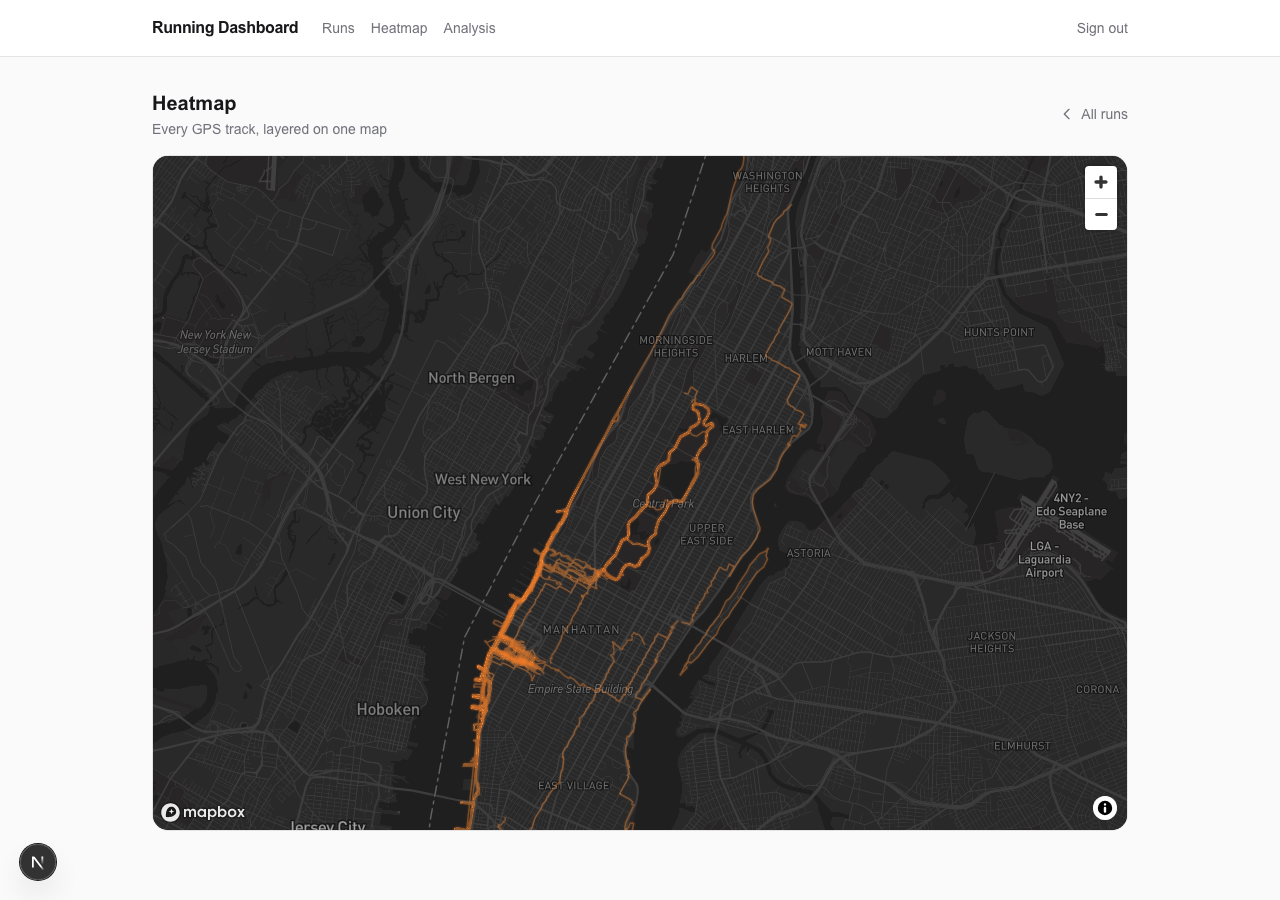
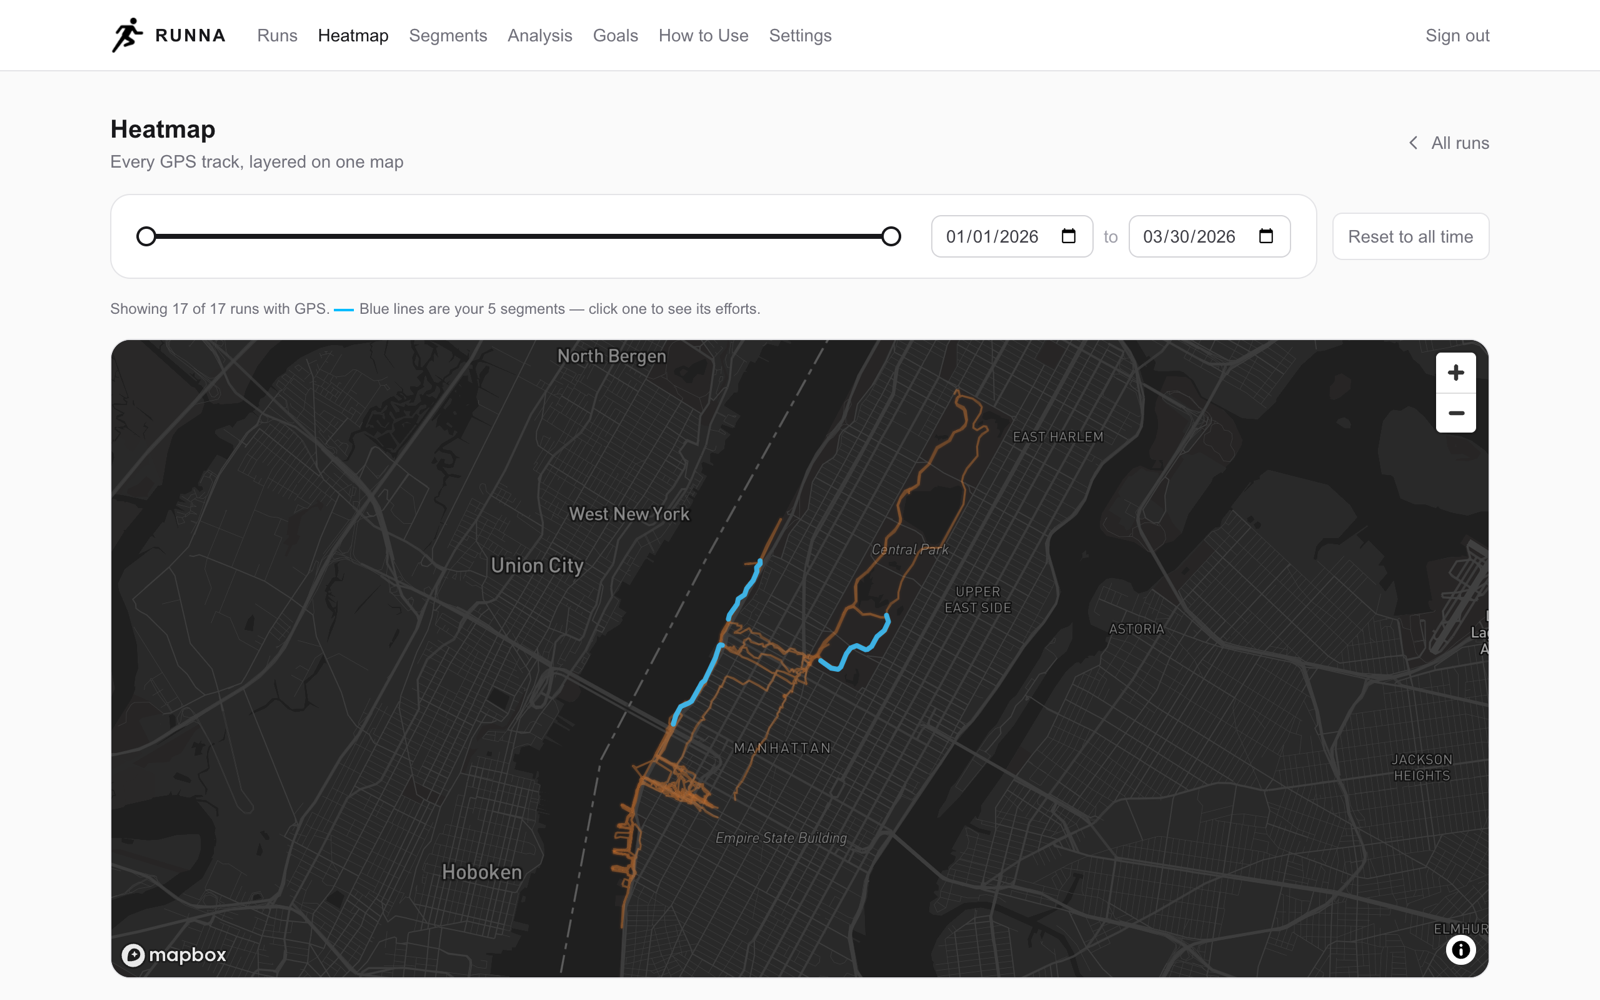
docs: refresh README with setup guide, feature tour and new screenshots
Rewrite the README around the current app: a feature tour per page,
an Analysis chart table, step-by-step setup with every env var, data
import, and project layout. Screenshots retaken from the demo account
at higher resolution, with new ones for Deep Dive, Segments, aerobic
charts and Goals.

diff --git a/README.md b/README.md
@@ -1,60 +1,191 @@
-# Running Planning
+# RUNNA — Personal Running Dashboard
 
-## Goals
-- Connect data to Garmin or Strava
-- List out my runs
-- Create visual maps for each run
-- Create dashboard for analyzing runs
+A private running dashboard for one runner. It pulls your runs from Intervals.icu (which syncs from Garmin and Strava) or from GPX/FIT files you upload, then turns them into maps, trends and coaching-style analysis built around one idea: **build a strong aerobic base, consistently, without getting hurt.**
+
+*Screenshots show the demo account's sample data.*
+
+**Contents:** [Features](#features) · [Getting started](#getting-started) · [Getting your data in](#getting-your-data-in) · [Weekly routine](#a-simple-weekly-routine) · [Project structure](#project-structure) · [Tech stack](#tech-stack)
+
+> New to the app? After you sign in, the **How to Use** page explains every chart and what to do about it.
 
 ---
 
-## What it does
+## Features
 
-A personal running dashboard for a single authenticated user. Pulls activity data from Intervals.icu (which aggregates Garmin and Strava), lets you upload GPX/FIT files directly, and turns it all into coaching-grade analysis.
+### Runs
 
-### Runs list
+Your full log: date, distance, time, pace, heart rate and source. Switch between miles and kilometers at any time (the choice is remembered).
 
-Every activity in one place — distance, time, pace, heart rate, and source. Toggle between miles and kilometers; preference is remembered across sessions.
+Next to the list, the **activity sidebar** shows whether the habit is holding: your weekly streak, progress on your weekly goal, a month calendar of run days, and distance for the past 12 weeks.
 
 ![Runs list](public/screenshots/runs-list.png)
 
-### Run detail & route map
+### Run detail
 
-Click any run to see the full stats breakdown and a GPS route map rendered with Mapbox, with a green start marker and red finish marker.
+Click a run to see its route on a map (green start, red finish), the weather at run time, and a **Deep Dive**: heart rate, pace, cadence and elevation through the run, plus per-mile splits and any segments you passed through.
 
 ![Run detail with route map](public/screenshots/run-detail.png)
 
+![Deep Dive heart-rate chart](public/screenshots/run-deep-dive.png)
+
 ### Heatmap
 
-All GPS tracks layered on a single dark map, centered on Manhattan. Repeated routes glow brighter — your training geography at a glance.
+Every GPS track layered on one dark map. Routes you run often glow brighter. It opens on the **last 90 days around your most recent run**, wherever that was. Drag the date slider to change the range, or click **Reset to all time** to see every run. Your segments appear as blue lines you can click.
 
-![All-runs heatmap](public/screenshots/heatmap.png)
+![Heatmap](public/screenshots/heatmap.png)
+
+### Segments
+
+The stretches you run most often, found automatically by spotting where many runs share the same path. Each segment times every pass you've made, so you can see whether you're getting faster at the same heart rate, and compare up to five efforts side by side.
+
+![Segments](public/screenshots/segments.png)
+
+![Segment efforts compared over the hill profile](public/screenshots/segment-detail.png)
 
 ### Analysis
 
-A dedicated analysis page with a date-range slider (default: last 2 weeks, adjustable to your full history). Every aerobic chart updates live as you scrub.
+Trends across many runs. A date slider at the top drives most charts; the training-load charts always use your full history.
 
-- **Aerobic Development** — distance vs. avg HR scatter, colored by date. A cloud drifting down = more distance for less cardiac cost.
-- **Aerobic Efficiency** — meters per minute per heartbeat over time. Rising = faster running at the same cardiovascular effort.
-- **Aerobic Pace** — easy (Zone 2) runs plotted over time; the y-axis is flipped so up = faster. The clearest long-term aerobic base signal.
-- **Effort Distribution** — weekly easy/moderate/hard breakdown by time, with the 75%-easy marathon training target marked.
-- **Fitness & Fatigue** — TRIMP-based CTL/ATL/TSB curves over 6 months: fitness builds slowly, fatigue moves fast, form = the difference.
-- **Acute:Chronic Load** — color-coded injury-risk ratio (green 0.8–1.3 = safe build, amber = caution, red = overreach).
-- **Long Run Progression** — longest run per week over the last 16 weeks.
+| Chart | The question it answers |
+|---|---|
+| **Training Plan** | What should my next 7 days look like, based on my recent load? |
+| **Weekly Volume** | Is my mileage consistent and growing gradually? |
+| **Aerobic Development** | Is the same distance costing my heart less over time? |
+| **Aerobic Efficiency** | How much speed does each heartbeat buy me? |
+| **Aerobic Pace** | Is my easy (Zone 2) pace getting faster? |
+| **Effort Distribution** | Are ~75% of my minutes actually easy? |
+| **Running Form** | How are my cadence and step length trending? |
+| **Run/Walk Split** | How much of each run is running vs. walking breaks? |
+| **Performance vs. Weather** | How much do heat and humidity slow *me* down? |
+| **Fitness & Fatigue** | Where are my fitness, fatigue and form (CTL / ATL / TSB)? |
+| **Acute : Chronic Load** | Am I ramping up faster than my body can absorb? |
+| **Long Run Progression** | Is my longest run of the week building steadily? |
 
-![Analysis page](public/screenshots/analysis.png)
+![Analysis page: weekly volume and aerobic development](public/screenshots/analysis.png)
+
+![Aerobic efficiency, aerobic pace and effort distribution](public/screenshots/analysis-aerobic.png)
+
+### Goals
+
+Set a weekly goal (runs or distance) and race goals. For each race, the app predicts your finish time from recent best efforts. It also tracks personal records from 1K to the marathon, detected from your runs automatically.
+
+![Goals and personal records](public/screenshots/goals.png)
+
+### Settings
+
+Your birthday (used to set heart-rate zones), the time zone used for days and weeks, and your login history.
+
+### Demo account
+
+A separate read-only login you can share with others. It sees only a date window you choose and can't change or sync anything. Credentials are set in `.env.local` and should be shared directly, never committed.
 
 ---
+
+## Getting started
+
+### 1. Prerequisites
+
+- Node.js 20+
+- A PostgreSQL database (local or hosted, e.g. Neon or Supabase)
+- A free [Mapbox](https://account.mapbox.com/access-tokens/) access token for the maps
+- *(Optional)* An [Intervals.icu](https://intervals.icu) account, for automatic sync
+
+### 2. Install
+
+```bash
+git clone https://github.com/RonRan123/running-app.git
+cd running-app
+npm install
+```
+
+### 3. Create `.env.local`
+
+Create a `.env.local` file in the project root with these values:
+
+| Variable | What it's for |
+|---|---|
+| `DATABASE_URL` | Your PostgreSQL connection string |
+| `NEXTAUTH_URL` | The app's URL, e.g. `http://localhost:3000` |
+| `NEXTAUTH_SECRET` | Any long random string (`openssl rand -base64 32`) |
+| `ADMIN_EMAIL` | The email you sign in with |
+| `ADMIN_PASSWORD_HASH` | A bcrypt hash of your password (see below) |
+| `NEXT_PUBLIC_MAPBOX_TOKEN` | Your Mapbox token |
+| `INTERVALS_API_KEY` | *(Optional)* From Intervals.icu → Settings → API Access |
+| `INTERVALS_ATHLETE_ID` | *(Optional)* From the same page |
+| `DEMO_EMAIL` / `DEMO_PASSWORD_HASH` | *(Optional)* The shareable read-only login |
+
+To hash a password:
+
+```bash
+node -e "console.log(require('bcryptjs').hashSync('your-password', 10))"
+```
+
+> **Escape the `$` signs.** Next.js expands `$` in env files, which breaks bcrypt hashes. Write each `$` in the hash as `\$`.
+
+### 4. Set up the database
+
+```bash
+npx prisma migrate deploy
+```
+
+### 5. Run it
+
+```bash
+npm run dev
+```
+
+Open [http://localhost:3000](http://localhost:3000) and sign in with your `ADMIN_EMAIL` and password.
+
+---
+
+## Getting your data in
+
+You never log runs by hand. Use either option, or both:
+
+- **Sync from Intervals.icu:** with the Intervals.icu variables set, click **Sync Intervals.icu** on the Runs page to pull in new activities. Connect Garmin or Strava inside Intervals.icu and your runs flow through.
+- **Upload files:** click **Upload GPX / FIT** on the Runs page and pick `.gpx` or `.fit` files exported from your watch.
+
+---
+
+## A simple weekly routine
+
+- **After each run:** open its Deep Dive. Was the effort what you intended?
+- **Once a week:** open Analysis. Check Effort Distribution (enough easy?), Acute : Chronic Load (ramping safely?) and Weekly Volume (consistent?).
+- **Once a month:** widen the date range and look at Aerobic Efficiency and Aerobic Pace. Is the engine growing?
+
+---
+
+## Project structure
+
+```
+app/
+  (protected)/      Signed-in pages: runs, analysis, segments, goals, settings, how-to-use
+  api/              Route handlers: activities, sync, segments, goals, settings, auth
+  login/            Sign-in page
+components/         UI, grouped by page (analysis/, deepdive/, goals/, segments/, settings/)
+lib/                Data access, analysis math, sync, file parsers, weather, training plan
+prisma/             Database schema and migrations
+```
+
+## Scripts
+
+| Command | What it does |
+|---|---|
+| `npm run dev` | Start the dev server on port 3000 |
+| `npm run build` | Generate the Prisma client and build for production |
+| `npm start` | Run the production build |
+| `npm test` | Run the unit tests (Vitest) |
 
 ## Tech stack
 
 | Layer | Choice |
 |---|---|
-| Framework | Next.js (App Router) |
+| Framework | Next.js 16 (App Router), React 19 |
 | Database | PostgreSQL + Prisma |
-| Auth | NextAuth.js (single-user credential login) |
+| Auth | NextAuth.js (credential login: one admin, one optional demo user) |
 | Maps | Mapbox GL JS |
 | Charts | Recharts |
-| Styling | Tailwind CSS |
+| Weather | Open-Meteo historical API |
+| Styling | Tailwind CSS 4 |
+| Tests | Vitest |
 | Deployment | Vercel |
-
